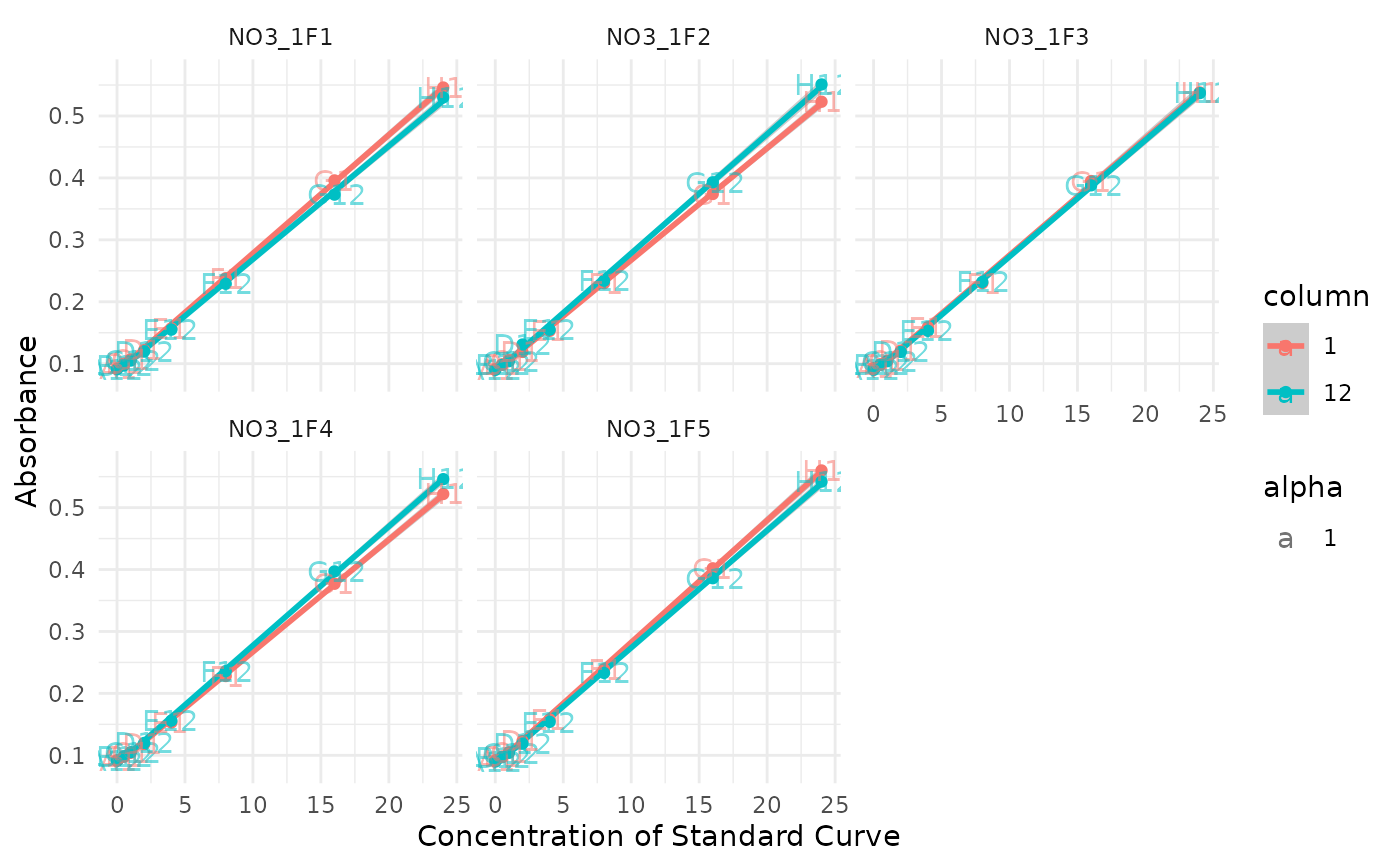
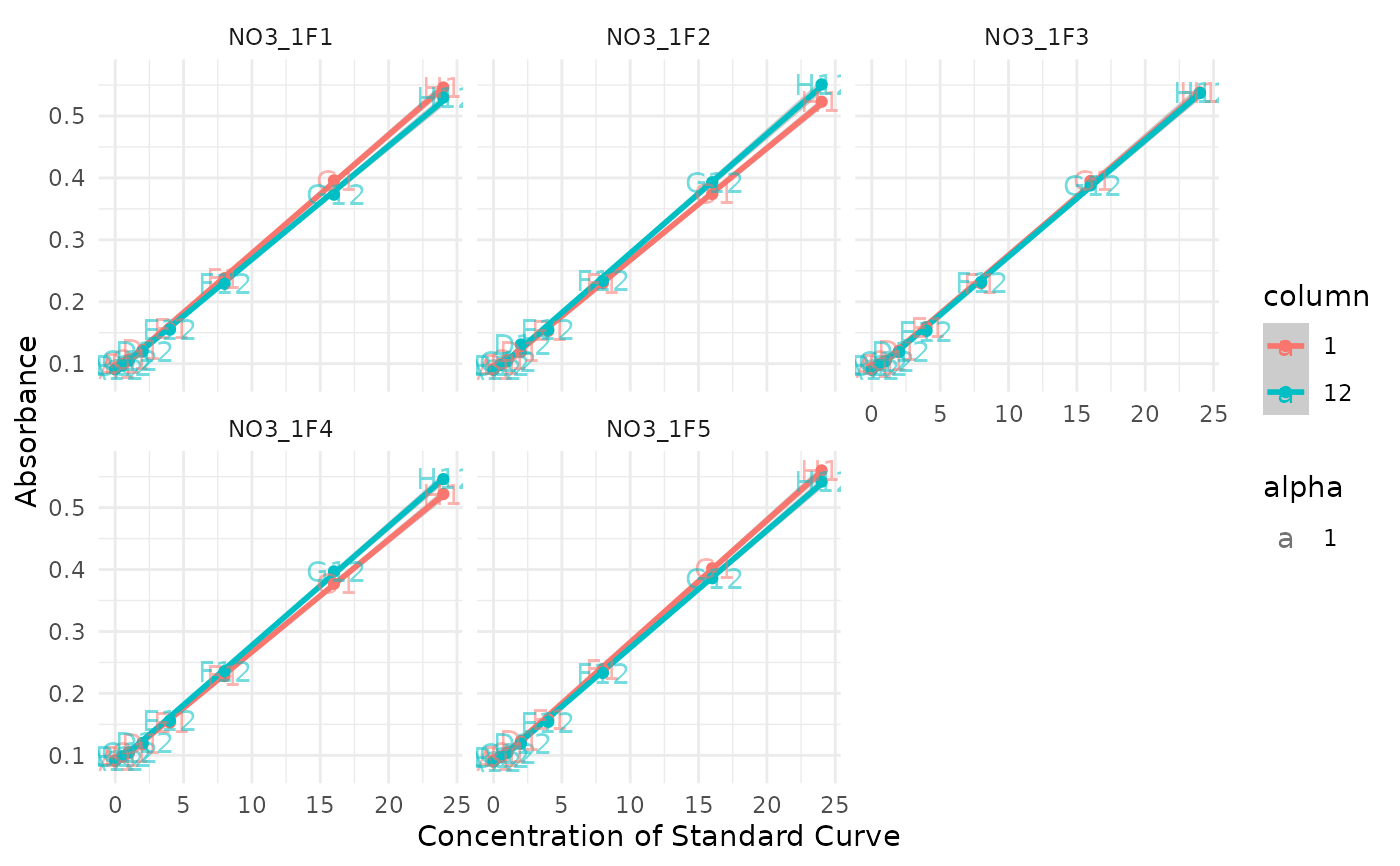
Deploying to gh-pages from @ mdetoeuf/plate2N@bbcf74fdc9cff9ecf641f15fd299143549d04671 🚀

diff --git a/reference/plot_list_lm.html b/reference/plot_list_lm.html
@@ -1,0 +1,101 @@
+<!DOCTYPE html>
+<!-- Generated by pkgdown: do not edit by hand --><html lang="en"><head><meta http-equiv="Content-Type" content="text/html; charset=UTF-8"><meta charset="utf-8"><meta http-equiv="X-UA-Compatible" content="IE=edge"><meta name="viewport" content="width=device-width, initial-scale=1, shrink-to-fit=no"><title>Compute a list of plots, one per standard curve — plot_list_lm • plate2N</title><script src="../deps/jquery-3.6.0/jquery-3.6.0.min.js"></script><meta name="viewport" content="width=device-width, initial-scale=1, shrink-to-fit=no"><link href="../deps/bootstrap-5.3.8/bootstrap.min.css" rel="stylesheet"><script src="../deps/bootstrap-5.3.8/bootstrap.bundle.min.js"></script><link href="../deps/font-awesome-6.5.2/css/all.min.css" rel="stylesheet"><link href="../deps/font-awesome-6.5.2/css/v4-shims.min.css" rel="stylesheet"><script src="../deps/headroom-0.11.0/headroom.min.js"></script><script src="../deps/headroom-0.11.0/jQuery.headroom.min.js"></script><script src="../deps/bootstrap-toc-1.0.1/bootstrap-toc.min.js"></script><script src="../deps/clipboard.js-2.0.11/clipboard.min.js"></script><script src="../deps/search-1.0.0/autocomplete.jquery.min.js"></script><script src="../deps/search-1.0.0/fuse.min.js"></script><script src="../deps/search-1.0.0/mark.min.js"></script><!-- pkgdown --><script src="../pkgdown.js"></script><meta property="og:title" content="Compute a list of plots, one per standard curve — plot_list_lm"><meta name="description" content="Compute a list of plots, one per standard curve"><meta property="og:description" content="Compute a list of plots, one per standard curve"></head><body>
+    <a href="#main" class="visually-hidden-focusable">Skip to contents</a>
+
+
+    <nav class="navbar navbar-expand-lg fixed-top bg-light" data-bs-theme="light" aria-label="Site navigation"><div class="container">
+
+    <a class="navbar-brand me-2" href="../index.html">plate2N</a>
+
+    <small class="nav-text text-muted me-auto" data-bs-toggle="tooltip" data-bs-placement="bottom" title="">0.0.2</small>
+
+
+    <button class="navbar-toggler" type="button" data-bs-toggle="collapse" data-bs-target="#navbar" aria-controls="navbar" aria-expanded="false" aria-label="Toggle navigation">
+      <span class="navbar-toggler-icon"></span>
+    </button>
+
+    <div id="navbar" class="collapse navbar-collapse ms-3">
+      <ul class="navbar-nav me-auto"><li class="active nav-item"><a class="nav-link" href="../reference/index.html">Reference</a></li>
+<li class="nav-item dropdown">
+  <button class="nav-link dropdown-toggle" type="button" id="dropdown-articles" data-bs-toggle="dropdown" aria-expanded="false" aria-haspopup="true">Articles</button>
+  <ul class="dropdown-menu" aria-labelledby="dropdown-articles"><li><a class="dropdown-item" href="../articles/import-tidy.html">import-tidy</a></li>
+    <li><a class="dropdown-item" href="../articles/translate-abs.html">translate-abs</a></li>
+  </ul></li>
+      </ul><ul class="navbar-nav"><li class="nav-item"><form class="form-inline" role="search">
+ <input class="form-control" type="search" name="search-input" id="search-input" autocomplete="off" aria-label="Search site" placeholder="Search for" data-search-index="../search.json"></form></li>
+<li class="nav-item"><a class="external-link nav-link" href="https://github.com/mdetoeuf/plate2N/" aria-label="GitHub"><span class="fa fab fa-github fa-lg"></span></a></li>
+      </ul></div>
+
+
+  </div>
+</nav><div class="container template-reference-topic">
+<div class="row">
+  <main id="main" class="col-md-9"><div class="page-header">
+
+      <h1>Compute a list of plots, one per standard curve</h1>
+      <small class="dont-index">Source: <a href="https://github.com/mdetoeuf/plate2N/blob/main/R/plotlist_suspicious_lm.R" class="external-link"><code>R/plotlist_suspicious_lm.R</code></a></small>
+      <div class="d-none name"><code>plot_list_lm.Rd</code></div>
+    </div>
+
+    <div class="ref-description section level2">
+    <p>Compute a list of plots, one per standard curve</p>
+    </div>
+
+    <div class="section level2">
+    <h2 id="ref-usage">Usage<a class="anchor" aria-label="anchor" href="#ref-usage"></a></h2>
+    <div class="sourceCode"><pre class="sourceCode r"><code><span><span class="fu">plot_list_lm</span><span class="op">(</span><span class="va">lm_data</span>, <span class="va">std_data</span><span class="op">)</span></span></code></pre></div>
+    </div>
+
+    <div class="section level2">
+    <h2 id="arguments">Arguments<a class="anchor" aria-label="anchor" href="#arguments"></a></h2>
+
+
+<dl><dt id="arg-lm-data">lm_data<a class="anchor" aria-label="anchor" href="#arg-lm-data"></a></dt>
+<dd><p>lm_data in the shape as generated by <code><a href="lm_std_curve.html">lm_std_curve()</a></code>,
+possibly as a subset to observe only suspicious curves</p></dd>
+
+
+<dt id="arg-std-data">std_data<a class="anchor" aria-label="anchor" href="#arg-std-data"></a></dt>
+<dd><p>tibble containing only standard data, as in <code>std_corrected</code>.
+Absorbance values should already by blank-corrected</p></dd>
+
+</dl></div>
+    <div class="section level2">
+    <h2 id="value">Value<a class="anchor" aria-label="anchor" href="#value"></a></h2>
+    <p>A list of plots, one per curve, annotated with the issue:
+- non-significance of the linear modal (p-value &gt; 0.05)
+- non-normality of residuals (shapiro test with threshold of p = 0.05)
+- heteroscedasticity of residuals (Breusch-Pagan test, threshold of p = 0.05)</p>
+    </div>
+
+    <div class="section level2">
+    <h2 id="ref-examples">Examples<a class="anchor" aria-label="anchor" href="#ref-examples"></a></h2>
+    <div class="sourceCode"><pre class="sourceCode r"><code><span class="r-in"><span><span class="va">lm_data</span> <span class="op">&lt;-</span> <span class="fu"><a href="lm_std_curve.html">lm_std_curve</a></span><span class="op">(</span><span class="va">std_corrected</span> <span class="op">|&gt;</span> <span class="fu">dplyr</span><span class="fu">::</span><span class="fu"><a href="https://dplyr.tidyverse.org/reference/group_by.html" class="external-link">group_by</a></span><span class="op">(</span><span class="va">plate_id</span>, <span class="va">column</span><span class="op">)</span><span class="op">)</span></span></span>
+<span class="r-in"><span><span class="va">plot_list</span> <span class="op">&lt;-</span> <span class="fu">plot_list_lm</span><span class="op">(</span></span></span>
+<span class="r-in"><span>    <span class="va">lm_data</span>,</span></span>
+<span class="r-in"><span>    std_data <span class="op">=</span> <span class="va">std_corrected</span><span class="op">)</span></span></span>
+<span class="r-in"><span><span class="va">plot_list</span><span class="op">[[</span><span class="fl">1</span><span class="op">]</span><span class="op">]</span> ; <span class="va">plot_list</span><span class="op">[[</span><span class="fl">2</span><span class="op">]</span><span class="op">]</span></span></span>
+<span class="r-plt img"><img src="plot_list_lm-1.png" alt="" width="700" height="433"></span>
+<span class="r-plt img"><img src="plot_list_lm-2.png" alt="" width="700" height="433"></span>
+</code></pre></div>
+    </div>
+  </main><aside class="col-md-3"><nav id="toc" aria-label="Table of contents"><h2>On this page</h2>
+    </nav></aside></div>
+
+
+    <footer><div class="pkgdown-footer-left">
+  <p>Developed by Morgane de Toeuf.</p>
+</div>
+
+<div class="pkgdown-footer-right">
+  <p>Site built with <a href="https://pkgdown.r-lib.org/" class="external-link">pkgdown</a> 2.2.0.</p>
+</div>
+
+    </footer></div>
+
+
+
+
+
+  </body></html>
+

diff --git a/reference/index.html b/reference/index.html
@@ -159,6 +159,13 @@
 
         <dt>
 
+          <code><a href="plot_list_lm.html">plot_list_lm()</a></code>
+
+        </dt>
+        <dd>Compute a list of plots, one per standard curve</dd>
+
+        <dt>
+
           <code><a href="plot_std.html">plot_std()</a></code>
 
         </dt>

diff --git a/articles/translate-abs.html b/articles/translate-abs.html
@@ -118,7 +118,7 @@ multiplot_outlier_extr()<a class="anchor" aria-label="anchor" href="#plot-extrac
 </h3>
 </div>
 <div class="section level3">
-<h3 id="lm_std_curve">lm_std_curve()<a class="anchor" aria-label="anchor" href="#lm_std_curve"></a>
+<h3 id="lm_std_curve-lm_std_curve">lm_std_curve() &amp; lm_std_curve()<a class="anchor" aria-label="anchor" href="#lm_std_curve-lm_std_curve"></a>
 </h3>
 </div>
 </div>

diff --git a/reference/plot_list_lm.md b/reference/plot_list_lm.md
@@ -1,0 +1,41 @@
+# Compute a list of plots, one per standard curve
+
+Compute a list of plots, one per standard curve
+
+## Usage
+
+``` r
+plot_list_lm(lm_data, std_data)
+```
+
+## Arguments
+
+- lm_data:
+
+  lm_data in the shape as generated by
+  [`lm_std_curve()`](https://mdetoeuf.github.io/plate2N/reference/lm_std_curve.md),
+  possibly as a subset to observe only suspicious curves
+
+- std_data:
+
+  tibble containing only standard data, as in `std_corrected`.
+  Absorbance values should already by blank-corrected
+
+## Value
+
+A list of plots, one per curve, annotated with the issue: -
+non-significance of the linear modal (p-value \> 0.05) - non-normality
+of residuals (shapiro test with threshold of p = 0.05) -
+heteroscedasticity of residuals (Breusch-Pagan test, threshold of p =
+0.05)
+
+## Examples
+
+``` r
+lm_data <- lm_std_curve(std_corrected |> dplyr::group_by(plate_id, column))
+plot_list <- plot_list_lm(
+    lm_data,
+    std_data = std_corrected)
+plot_list[[1]] ; plot_list[[2]]
+
+```

diff --git a/articles/translate-abs.md b/articles/translate-abs.md
@@ -29,4 +29,4 @@ library(plate2N)
 
 ### plot extractant outliers with boxplot_outlier_extr() or multiplot_outlier_extr()
 
-### lm_std_curve()
+### lm_std_curve() & lm_std_curve()

diff --git a/reference/index.md b/reference/index.md
@@ -41,6 +41,8 @@
 - [`plot_blank_var_distrib()`](https://mdetoeuf.github.io/plate2N/reference/plot_blank_var_distrib.md)
   : Plot dataset-wide distribution of withing-plate variation for
   extractant data
+- [`plot_list_lm()`](https://mdetoeuf.github.io/plate2N/reference/plot_list_lm.md)
+  : Compute a list of plots, one per standard curve
 - [`plot_std()`](https://mdetoeuf.github.io/plate2N/reference/plot_std.md)
   : Display one or more standard curve(s)
 - [`qc_raw_abs()`](https://mdetoeuf.github.io/plate2N/reference/qc_raw_abs.md)